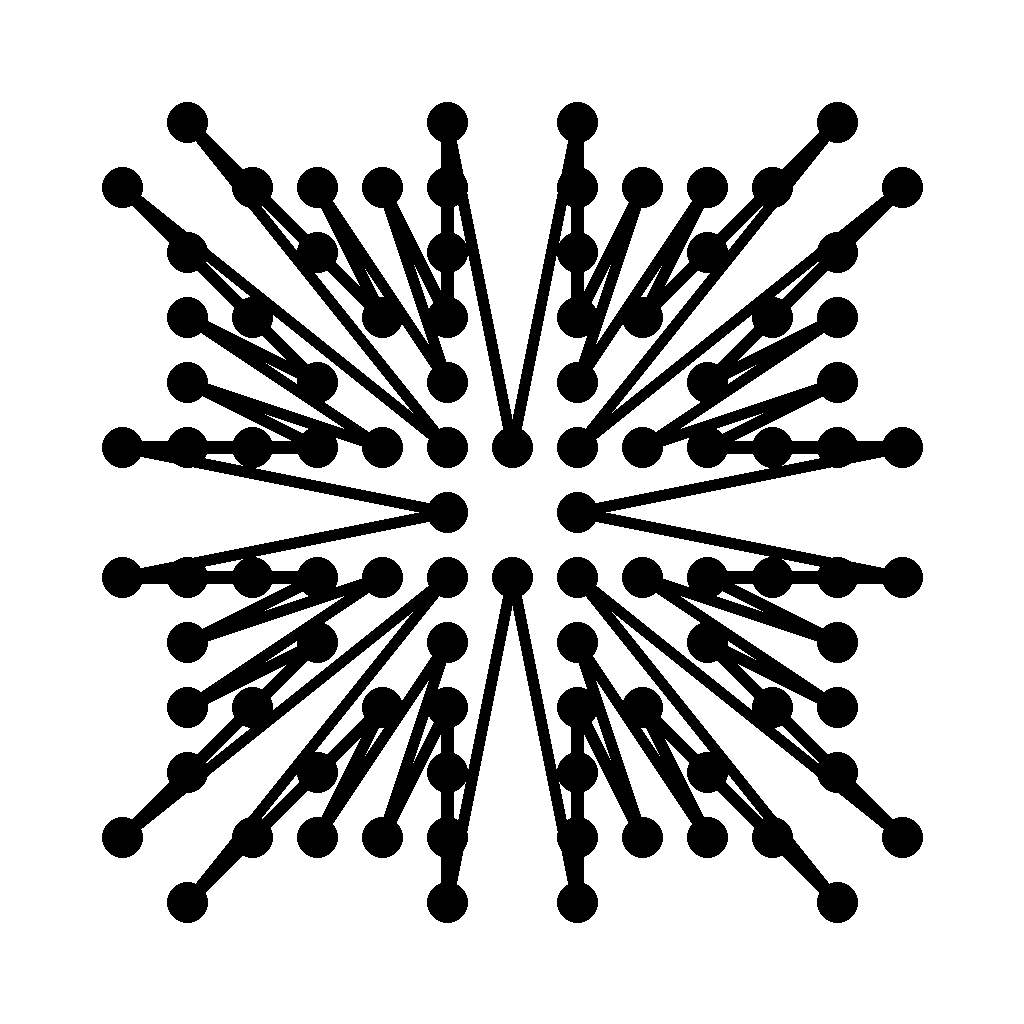
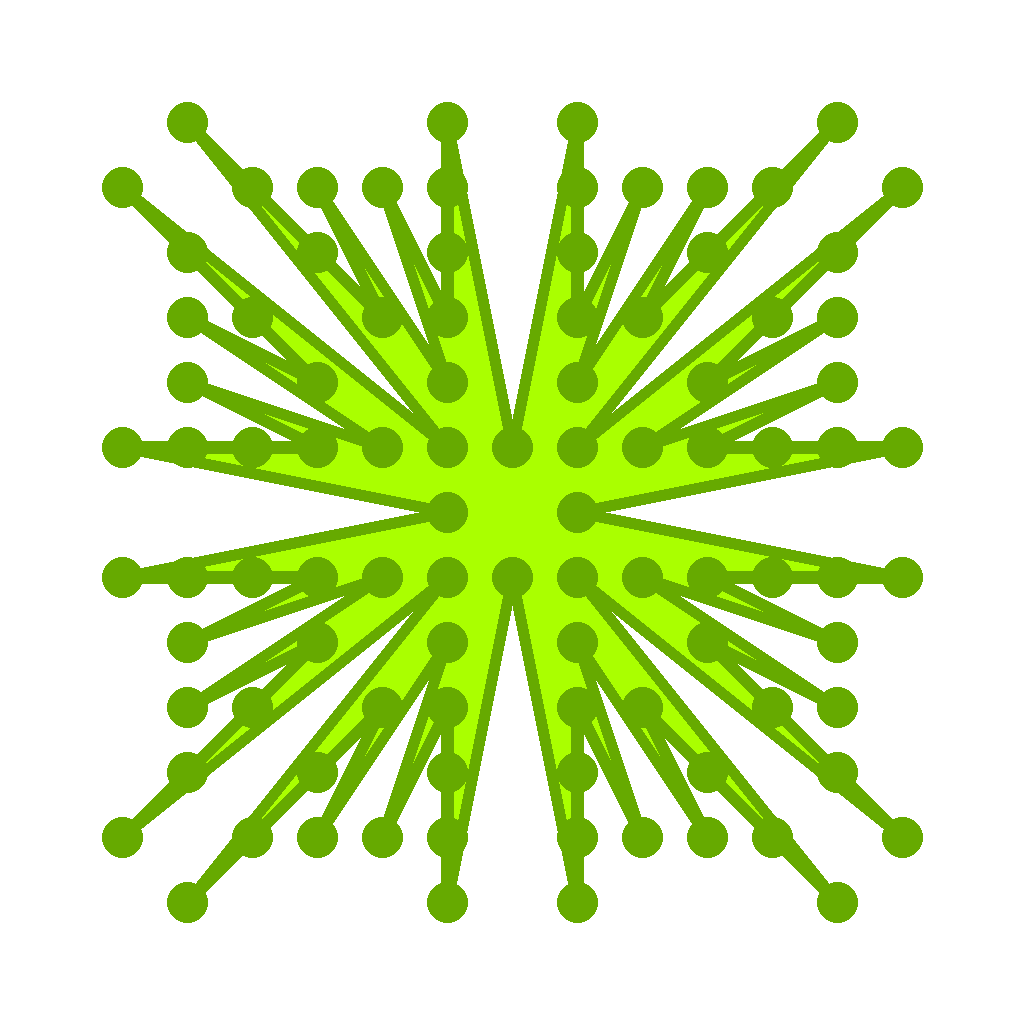
Add fill colour to farey image generation

diff --git a/src/farey.rs b/src/farey.rs
@@ -19,7 +19,7 @@ const SIZE: u32 = 1024;
 const LINE_THICKNESS: i32 = 6;
 const CIRCLE_SIZE: i32 = 20;
 
-pub fn generate_farey_sunburst(color: Color, n: i32) -> DynamicImage {
+pub fn generate_farey_sunburst(color: Color, n: i32, fill_color: Option<Color>) -> DynamicImage {
     let mut image = RgbaImage::new(SIZE, SIZE);
 
     let scale = SIZE as i32 / n / 2 - 20;
@@ -32,16 +32,56 @@ pub fn generate_farey_sunburst(color: Color, n: i32) -> DynamicImage {
     let bottom_left_position = |x, y| (centre.0 - x * scale, centre.1 + y * scale);
     let top_left_position = |x, y| (centre.0 - x * scale, centre.1 - y * scale);
 
+    if let Some(fill_color) = fill_color {
+        let mut all_points = Vec::new();
+
+        get_points_octet(top_right_position, false, n, &mut all_points);
+        get_points_octet(top_right_position, true, n, &mut all_points);
+        get_points_octet(bottom_right_position, false, n, &mut all_points);
+        get_points_octet(bottom_right_position, true, n, &mut all_points);
+        get_points_octet(bottom_left_position, false, n, &mut all_points);
+        get_points_octet(bottom_left_position, true, n, &mut all_points);
+        get_points_octet(top_left_position, false, n, &mut all_points);
+        get_points_octet(top_left_position, true, n, &mut all_points);
+
+        let fill_color = Rgba(fill_color.to_rgba8());
+        let points: Vec<_> = all_points.iter().map(|x| Point::new(x.0, x.1)).collect();
+        draw_polygon_mut(&mut image, &points, fill_color);
+    }
+
     draw_farey_octet(&mut image, top_right_position, false, n, color);
     draw_farey_octet(&mut image, top_right_position, true, n, color);
-    draw_farey_octet(&mut image, bottom_right_position, true, n, color);
     draw_farey_octet(&mut image, bottom_right_position, false, n, color);
+    draw_farey_octet(&mut image, bottom_right_position, true, n, color);
     draw_farey_octet(&mut image, bottom_left_position, false, n, color);
     draw_farey_octet(&mut image, bottom_left_position, true, n, color);
     draw_farey_octet(&mut image, top_left_position, false, n, color);
     draw_farey_octet(&mut image, top_left_position, true, n, color);
 
     DynamicImage::ImageRgba8(image)
+}
+
+fn get_points_octet<F>(position_func: F, swap: bool, n: i32, point_vec: &mut Vec<(i32, i32)>)
+where
+    F: Fn(i32, i32) -> (i32, i32),
+{
+    let farey_iterator = if swap {
+        FareyIterator::new_descending(n)
+    } else {
+        FareyIterator::new(n)
+    };
+    for (mut x, mut y) in farey_iterator {
+        if swap {
+            std::mem::swap(&mut x, &mut y);
+        }
+        let position = position_func(x, y);
+        if let Some(last_point) = point_vec.last()
+            && *last_point == position
+        {
+        } else {
+            point_vec.push(position);
+        }
+    }
 }
 
 fn draw_farey_octet<F, C>(image: &mut C, position_func: F, swap: bool, n: i32, color: C::Pixel)
@@ -75,14 +115,14 @@ where
     }
 }
 
-fn draw_thick_line<C, P>(
+fn draw_thick_line<C>(
     canvas: &mut C,
-    color: P,
+    color: C::Pixel,
     point1: Point<i32>,
     point2: Point<i32>,
     thickness: i32,
 ) where
-    C: Canvas<Pixel = P>,
+    C: Canvas,
 {
     let angle = f64::atan2(
         point2.y as f64 - point1.y as f64,

diff --git a/src/main.rs b/src/main.rs
@@ -66,7 +66,11 @@ fn save_static_image(args: Args) {
             color2,
             size,
         } => generate_perlin_noise(PerlinNoiseOptions::new(size, color1, color2)),
-        ImageType::Farey { color, n } => generate_farey_sunburst(color, n),
+        ImageType::Farey {
+            color,
+            n,
+            fill_color,
+        } => generate_farey_sunburst(color, n, fill_color),
     };
     let end = Instant::now();
     println!("Generated image in {}ms", (end - start).as_millis());
@@ -203,6 +207,9 @@ enum ImageType {
 
         #[arg(long, default_value = "6")]
         n: i32,
+
+        #[arg(short, long)]
+        fill_color: Option<Color>,
     },
 }
 

diff --git a/showcase/file-generation.md b/showcase/file-generation.md
@@ -57,4 +57,4 @@ A farey sunburst as per the [wikipedia page](https://en.wikipedia.org/wiki/Farey
 ![image showing a sunburst image](./farey.webp)
 
 Generated with the following:
-`cargo run -- --output=showcase/farey.webp farey --n=6 --color=black`
+`cargo run -- --output=showcase/farey.webp farey --n=6 --color=#66aa00 --fill-color=#aaff00`
